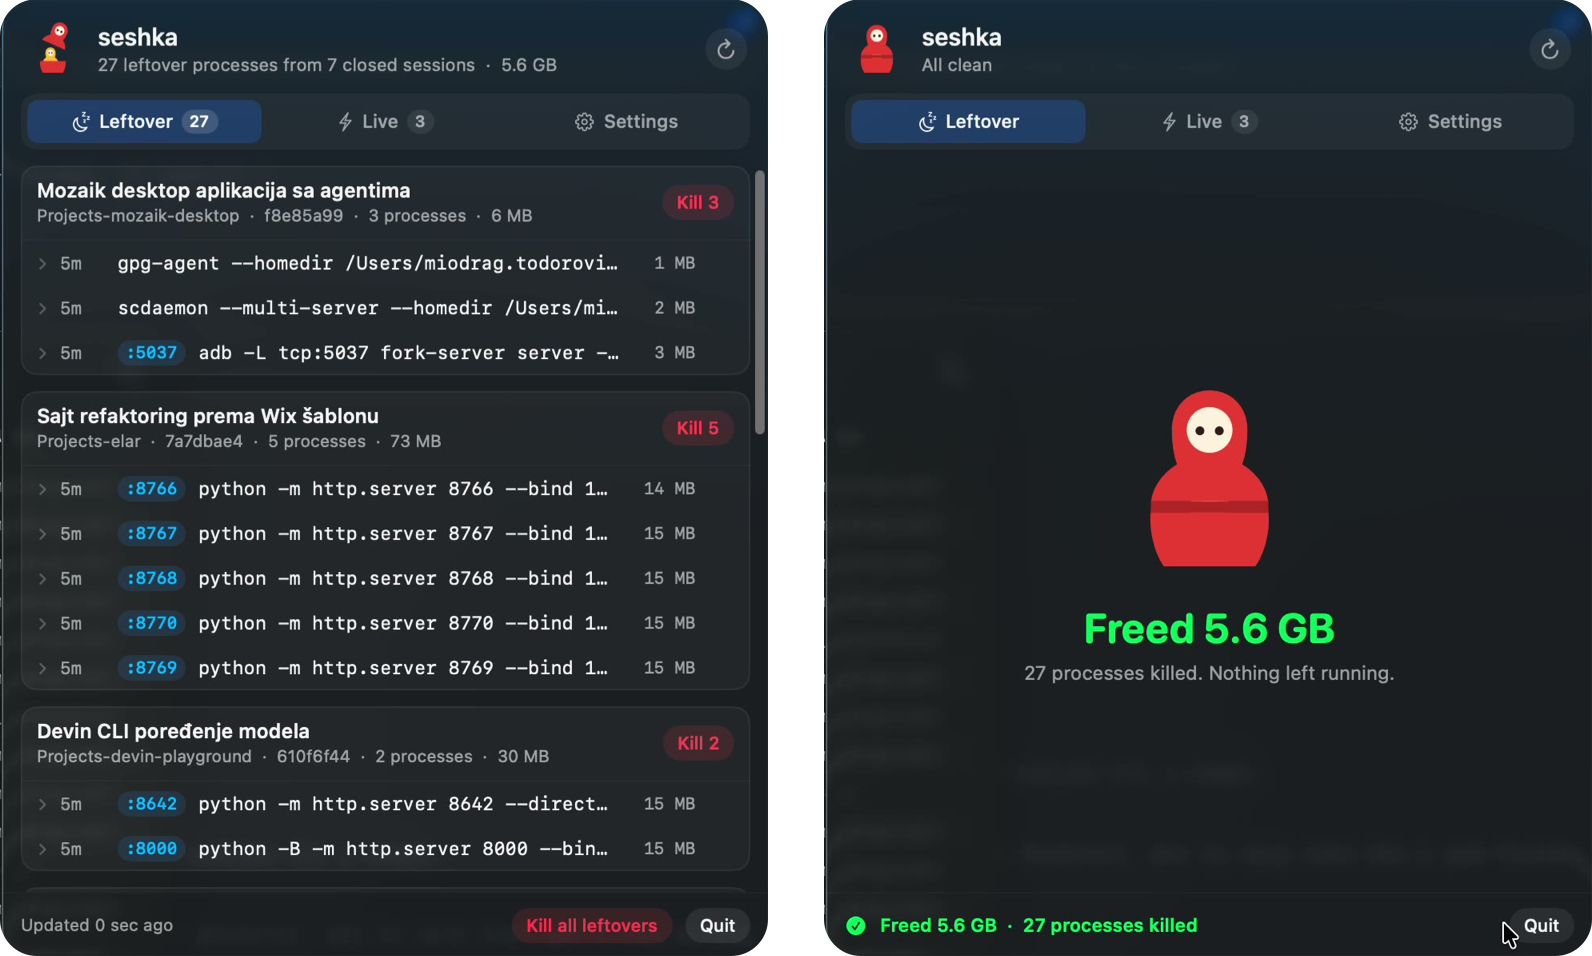
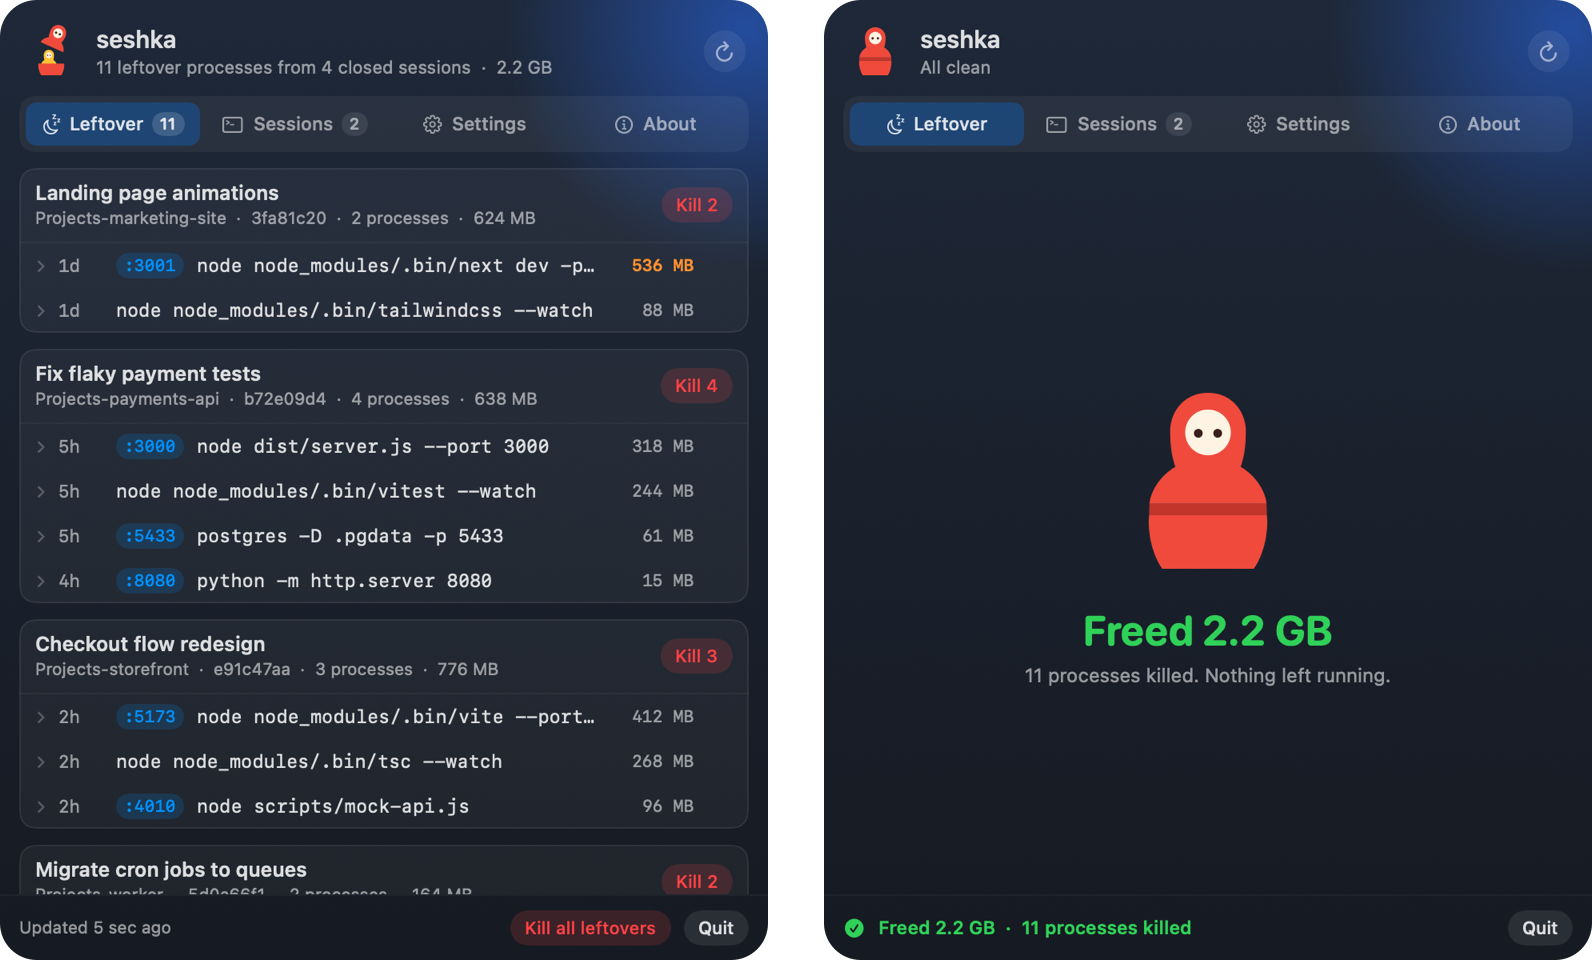
Replace the README screenshot with demo data from the current version

diff --git a/README.md b/README.md
@@ -5,7 +5,7 @@
 Claude Code sessions end. The dev servers, watchers and emulators they started don't.
 seshka is a macOS menu bar app that finds them and kills them.
 
-![seshka listing 27 leftover processes, and the same popover after killing them: Freed 5.6 GB](docs/screenshot.png)
+![seshka listing 11 leftover processes from 4 closed sessions, and the same popover after killing them: Freed 2.2 GB](docs/screenshot.png)
 
 ## What it does
 
